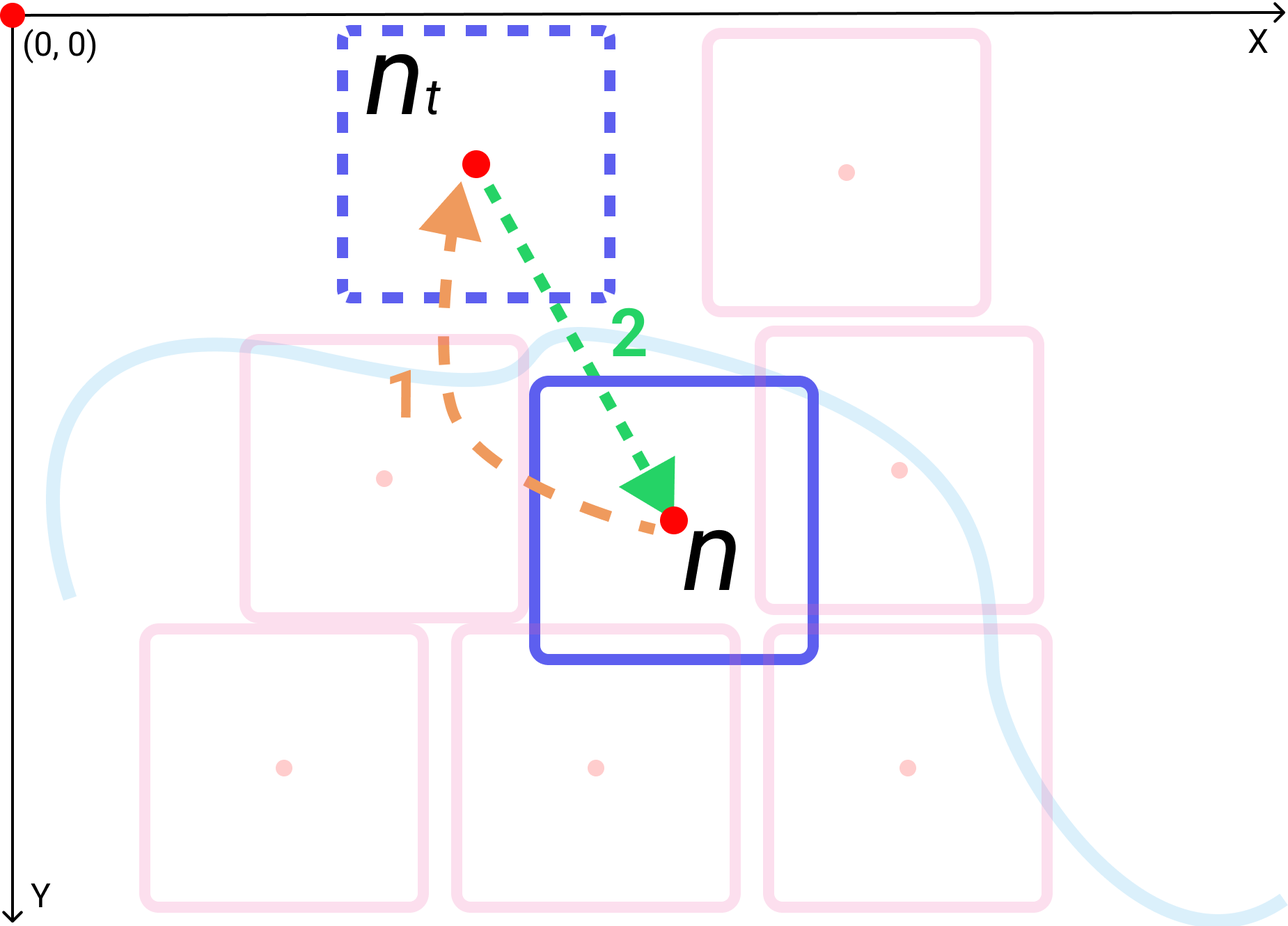
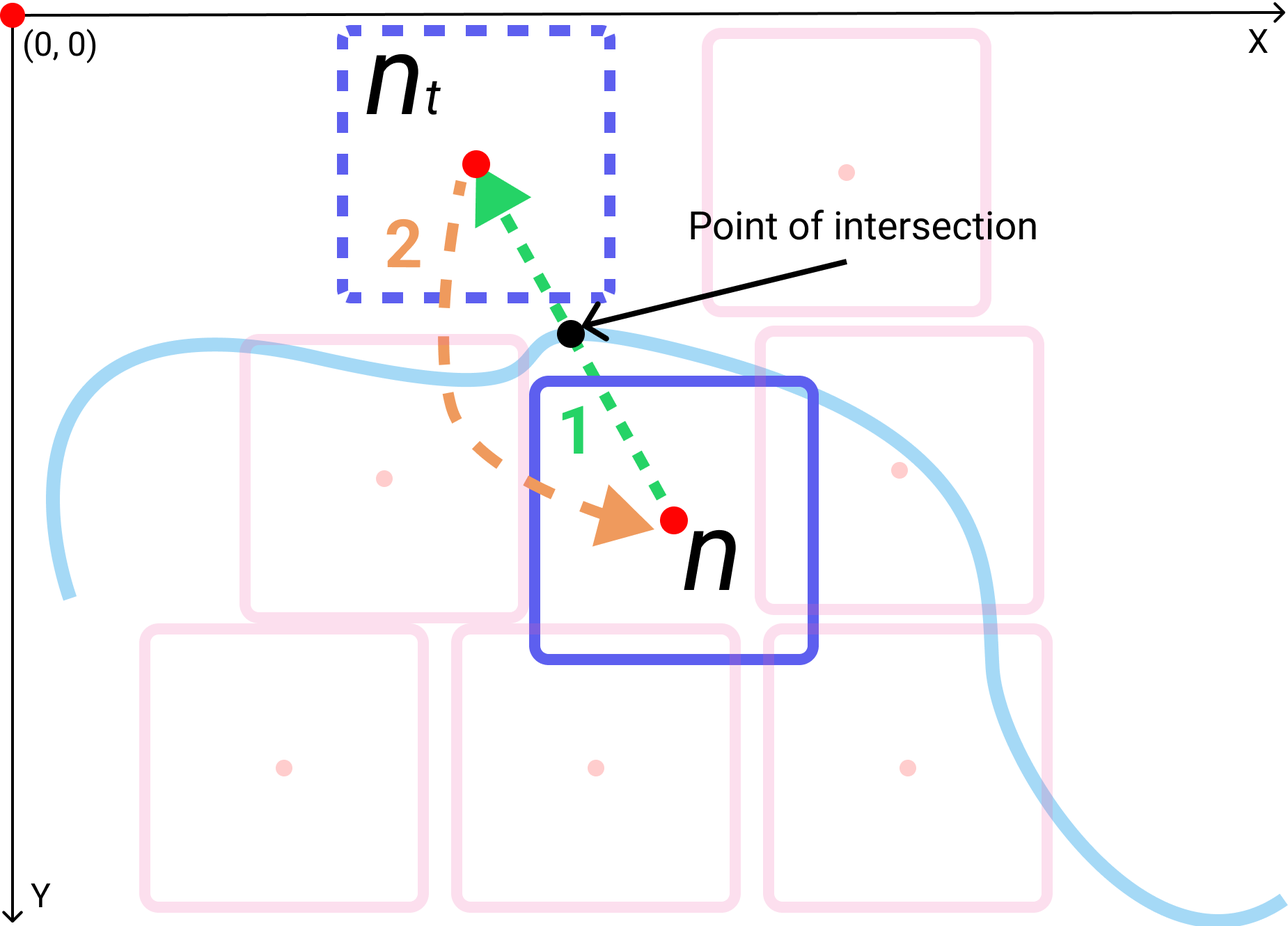
draft: review

diff --git a/paper/section/main.tex b/paper/section/main.tex
@@ -10,33 +10,41 @@
 }
 
 {
-\begin{figure}[tb!]
-    \centering
-    \includegraphics[width=\columnwidth]{figure/flowchart.png}
-    \caption{A flowchart showing our layout algorithm.}
-    \label{fig:flowchart}
-\end{figure}
+    \begin{figure}[tb!]
+        \centering
+        \includegraphics[width=\columnwidth]{figure/flowchart.png}
+        \caption{A flowchart illustration of our layout algorithm. See also \algoref{alg:UpdateNodePosition} for more detail.}
+        \label{fig:flowchart}
+    \end{figure}
+
+    \begin{figure}[tb!]
+        \centering
+        \includegraphics[width=\columnwidth]{figure/flowchart2.png}
+        \caption{An awesome flowchart illustration of our layout algorithm. See also \algoref{alg:UpdateNodePosition} for more detail.}
+        \label{fig:flowchart2}
+    \end{figure}
 }
 
-\algoref{alg:UpdateNodePosition} and \figref{fig:flowchart} provide an overview of our algorithm. \textbf{Initialization:} We first load and render the CCG geospatial boundaries. For each CCG we compute the centroid and represent it using a small unit size square node with initial size, $ \nodeSize $. We start with small unit size squares because they do not overlap initially. \textbf{Node layout:} The basic algorithm is as follows: we first apply the Fast Node Overlap Removal (VPSC) algorithm \cite{dwyer2006fast} to remove overlaps. We chose VPSC over other node overlap removal algorithms because VPSC is able to provide spread minimization and node movement minimization while maintaining a good level of global shape preservation \cite{chen2020Node}. We gradually increase the node size by 1 unit at a time to ensure smooth transitions. An increase in size can cause the nodes to overlap. During overlap removal, we compute node trajectories (See \algoref{alg:check river intersection}) and translate nodes to their new position. Nodes that cross a river are translated back to their previous position. This procedure ends when 1) no node overlap is present; 2) no nodes cross a river. We then increase $ \nodeSize $ by one pixel and repeat the algorithm until the max node size $ \nodeSizeMax $ is reached. The gradual size increase process provides stability to the layout and helps minimize geographical error.
+\algoref{alg:UpdateNodePosition} and \figref{fig:flowchart} provide an overview of the process. \textbf{Initialization:} We first load and render the CCG geospatial boundaries. For each CCG we compute the centroid and represent it using a small unit size square node with initial size, $ \nodeSize $. We start with small unit size squares because they do not overlap initially. \textbf{Node layout:} The basic algorithm is as follows: we first apply the Fast Node Overlap Removal (FNOR) algorithm that solves the Variable Placement with Separation Constraints (VPSC) problem \cite{dwyer2006fast} in order to remove overlaps. We chose FNOR over other node overlap removal algorithms because FNOR is able to provide spread minimization and node movement minimization while maintaining a good level of global shape preservation \cite{chen2020Node}. We gradually increase the node size by 1 unit at a time to ensure smooth transitions. An increase in $ \nodeSize $ can cause the nodes to overlap. During overlap removal, we compute node trajectories (See \algoref{alg:check river intersection}) and translate nodes to their new position. Nodes that cross a river are translated back to their previous position. This procedure ends when 1) no node overlap is present; 2) no nodes cross a river. We then increase $ \nodeSize $ by one pixel and repeat the algorithm until the max node size $ \nodeSizeMax $ is reached. The gradual size increase process provides stability to the layout and helps minimize geographical error.
 
 % \begin{noindent}
 
 \begin{algorithm}[tb!]
     \caption{Procedure to update node positions by removing overlap and prevent nodes from crossing rivers.}\label{alg:UpdateNodePosition}
     \textbf{Global variables:} \\
-    $ \nodeList \gets $ a list of nodes representing CCGs \\
+    $ \nodeList \gets $ a list of $ \node $ representing CCGs with the following properties: \\
+    \-\hspace{1em} $ \nodeListCross \gets True $ if any $ \node $ in $ \nodeList $ crosses a river \\
     $ \nodeSize \gets $ the current size of all nodes \\
     $ \nodeSizeMax \gets $ the maximum size of a node \\
     $ \stalemateMax \gets $ the maximum number of iterations indicating a stalemate \\
 
     \textbf{Local variables:} \\
-    $ \nodeListVPSC \gets $ a list of nodes representing CCGs after VPSC \\
-    $ \nodeListCross \gets True $ if any node in the list crosses a river \\
-    $ \nodeCross \gets True $ if node crosses a river \\
-    % $ \nodeListEach \gets $ a node in $ \nodeList $ \\
-    $ \nodeListEachPrevious \gets $ the previous position of $ \nodeListEach $\\
-    $ \nodeListVPSCEach \gets $ a node in $ \nodeListVPSC $, which is the position of $ \nodeListEach $ after VPSC \\
+    $ \node \gets $ a node is an object with the following property: \\
+    \-\hspace{1em} $ \node.x, \node.y, $ or $ \node(x,y) \gets $ the x and y coordinates of $ \node $ \\
+    \-\hspace{1em} $ \nodeCross \gets True $ if $ \node $ crosses a river \\
+    \-\hspace{1em} $ \nodePrevious \gets $ the previous position of $ \node $ \\
+    \-\hspace{1em} $ \nodeFNOR \gets $ the translated position of $ \node $ \\
+
 
     \begin{algorithmic}[1]
         \Procedure{UpdateNodePosition}{}
@@ -44,30 +52,29 @@
 
             \While{$ \nodeListCross = True $}
 
-                \State \Comment{We should merge two lists into one}
                 \State $ \nodeListCross \gets False $
-                \State $ \nodeListVPSC \gets $ RemoveOverlap ($ \nodeList $)
+                \State $ \nodeList \gets $ RemoveOverlap ($ \nodeList $)
 
-                \ForEach {$ \nodeListVPSCEach \in \nodeListVPSC $}
+                \ForEach {$ \node \in \nodeList $}
 
-                    \If {$ \nodeListEach(x,y) \neq \nodeListVPSCEach(x,y) $}
-
-                        \State $ \nodeCross \gets $ \Call{TestRiverIntersection}{$ \nodeListVPSCEachLine $}
-                        \State $ \nodeListEach(x,y) \gets \nodeListVPSCEach(x,y) $
+                    \If {$ \node(x,y) \neq \nodeFNOR(x,y) $}
+                        
+                        \State $ \node(x,y) \gets \nodeFNOR(x,y) $
+                        \State $ \nodeCross \gets $ \Call{TestRiverIntersection}{$ \nodeFNORLine $}
 
                         \If{$ \nodeCross = True $}
 
                             \State $ \nodeListCross \gets True $
-                            \State $ \nodeListEachStalemate \gets \nodeListEachStalemate + 1 $
+                            \State $ \nodeStalemate \gets \nodeStalemate + 1 $
 
-                            \If{$ \nodeListEachStalemate < \stalemateMax $}
-
-                                \State $ \nodeListEach(x,y) \gets \nodeListEachPrevious(x,y) $
+                            \If{$ \nodeStalemate < \stalemateMax $}
+                                \State \hskip-2em \Comment{Transalte back to previous position}
+                                \State $ \node(x,y) \gets \nodePrevious(x,y) $
 
                             \Else
 
-                                \State \Call{ProcessStalemate}{$ \nodeListEach, \nodeListVPSCEach $}
-                                \State $ \nodeListEachStalemate \gets 0 $ \Comment{Reset counter}
+                                \State \Call{ProcessStalemate}{$ \node, \nodeFNOR $}
+                                \State $ \nodeStalemate \gets 0 $ \Comment{Reset counter}
 
                             \EndIf
                             
@@ -88,35 +95,11 @@
 \end{algorithm}
 
 
-% \begin{algorithm}[tb!]
-%     \caption{Procedure to update the position of a single node $ \node $.}\label{alg:move position}
-
-%     \textbf{Input:} \\
-%     $ \node \gets $ the node \\
-%     $ \nodeVPSC \gets $ the node after running VPSC \\
-
-%     \textbf{Output:} \\
-%     Returns $ True $ if the node's position is updated. \\
-
-%     \begin{algorithmic}[1]
-%         \Procedure{TranslateNode}{$ \node, \nodeVPSC $}
-%         \If{$ \node(x,y) = \nodeVPSC(x,y) $}
-%             \item[] \Comment{Node position remains unchanged}
-%             \State \Return{$ False $}
-%         \EndIf
-
-%         \State $ \node(x,y) \gets \nodeVPSC(x,y) $
-
-%         \State \Return{$ True $}
-%         \EndProcedure
-%     \end{algorithmic}
-% \end{algorithm}
-
 %\end{noindent}
 
 \subsection{River Intersection Testing}
 
-We use rivers as topological boundaries and prevent nodes from crossing them. The resolution of rivers can be adjusted by the user, as shown in \figref{fig:river resolution}, the number of edges is reduced from its original 10,170 to 65. We do not require a pixel-level river resolution as Demers cartograms do not represent geography at this level od detail, instead a resolution that matches the nodes is used. Enabling river simplification reduces the number of edge intersection tests that need to be performed. When a node's position changes, we test if the node's trajectory intersects any segment of a river. See \algoref{alg:check river intersection}. A bounding box intersection test between the edge defined by node translation and river edges can be performed to reduce the number of edge intersection detections required.
+We use rivers as topological boundaries and prevent nodes from crossing them. The resolution of rivers can be adjusted by the user, as shown in \figref{fig:river resolution}, the number of edges is reduced from its original 10,170 to 65. We do not require a pixel-level river resolution as Demers cartograms do not represent geography at this level od detail. Instead a resolution that matches the node size is used. Enabling river simplification reduces the number of edge intersection tests that need to be performed. When a node's position changes, we test if the node's trajectory intersects any segment of a river. See \algoref{alg:check river intersection}. A bounding box intersection test between the edge defined by node translation and river edges can be performed to reduce the number of edge intersection tests required.
 
 
 {
@@ -141,23 +124,21 @@ We use rivers as topological boundaries and prevent nodes from crossing them. Th
     $ \riverEdgeList \gets $ a list of river edges \\
 
     \textbf{Local variables:} \\
-    $ \riverEdgeListEachLine \gets $ a river edge in $ \riverEdgeList $ \\ 
-    $ \nodeBoundingBox, \riverEdgeBoundingBoxEach \gets $ the bounding boxes for $ \nodeLineNV $ and $ \riverEdgeListEachLine $ \\
-    % $ \boundingBoxInt \gets $ boolean indicating $ \nodeBoundingBox $ intersects $ \riverEdgeBoundingBoxEach $ \\
+    $ \riverEdgeLine \gets $ a river edge in $ \riverEdgeList $ \\ 
+    $ \nodeBoundingBox, \riverEdgeBoundingBox \gets $ the bounding boxes for $ \nodeLineNV $ and $ \riverEdgeLine $ \\
+    % $ \boundingBoxInt \gets $ boolean indicating $ \nodeBoundingBox $ intersects $ \riverEdgeBoundingBox $ \\
     % $ \nodeEdge \gets $ the edge for $ \node $\\
     % $ \edgeBoxInt \gets $ boolean indicating $ \nodeEdge $ intersects $ \riverEdgeListEach $ \\
 
     \begin{algorithmic}[1]
         \Procedure{TestRiverIntersection}{$ \nodeLineNV $}
         
-        \ForEach{$ \riverEdgeListEachLine \in \riverEdgeList $}
+        \ForEach{$ \riverEdgeLine \in \riverEdgeList $}
             \State $ \nodeBoundingBox \gets $ GetBoundingBox ($ \nodeLineNV $)
-            \State $ \riverEdgeBoundingBoxEach \gets $ GetBoundingBox ($ \riverEdgeListEachLine $)
-            % \State $ \boundingBoxInt \gets $ TestIntersection ($ \nodeBoundingBox, \riverEdgeBoundingBoxEach $)
-            % \If{$ \boundingBoxInt = True $}
+            \State $ \riverEdgeBoundingBox \gets $ GetBoundingBox ($ \riverEdgeLine $)
 
-            \If{$ \nodeBoundingBox ~intersect~ \riverEdgeBoundingBoxEach = True $}
-                \State \Return{$ \nodeLineNV ~intersect~ \riverEdgeListEachLine $}
+            \If{$ \nodeBoundingBox ~intersect~ \riverEdgeBoundingBox = True $}
+                \State \Return{$ \nodeLineNV ~intersect~ \riverEdgeLine $}
                 \EndIf
         \EndFor
         
@@ -169,13 +150,13 @@ We use rivers as topological boundaries and prevent nodes from crossing them. Th
 
 \subsection{Detecting Stalemates}
 
-As the VPSC always attempts to produce an optimal node layout where node distribution and translation are minimized, a node's translation path might be repeatedly intersecting a river due to congestion, creating a stalemate situation, as shown in \figref{fig:stalemate}. If a node is translated between two positions for $ \stalemateMax $ iterations, a corridor is constructed to break up the congestion. A corridor, $ c $, is a rectangle with a width of $ \CorridorWidth $ and a length of $ \CorridorLength $, formed by deriving two edges $ \EdgeParallelA $ and $ \EdgeParallelB $ such that $ \EdgeParallelA \parallel \EdgeParallelA \parallel \nodeLineNpP $ (See \figref{fig:corridor}C and D). All enclosed nodes are then translated by $ \nodeVectorNC $ to alleviate the congestion (See \figref{fig:corridor}D).
+As the FNOR always attempts to produce an optimal node layout where node distribution and translation are minimized, a node's translation path might repeatedly intersect a river due to congestion, creating a stalemate situation, as shown in \figref{fig:stalemate}. If a node is translated between two positions, $ \node $ and $ \nodeFNOR $, for $ \stalemateMax $ iterations, we introduce a heuristic solution: constructing a corridor to break up the congestion. A corridor, $ c $, is a rectangle with a width of $ \CorridorWidth $ and a length of $ \CorridorLength $, formed by deriving two edges $ \EdgeParallelA $ and $ \EdgeParallelB $ such that $ \EdgeParallelA \parallel \EdgeParallelA \parallel \nodeLineNtNc $ (See \figref{fig:corridor}C and D). All enclosed nodes are then translated by $ \nodeVectorTC $ to alleviate the congestion (See \figref{fig:corridor}D).
 
 {
 \begin{figure}[tb!]
     \centering
     \includegraphics[width=\columnwidth]{figure/stalemate.png}
-    \caption{A stalemate situation is when a node's translation path $ \nodeVectorCN $ intersects a river for $ \stalemateMax $ times. A stalemate often occurs when the area is congested and the node is unable to move to a position that is not intersecting a river.}
+    \caption{A stalemate situation is when a node's translation path $ \nodeVectorCT $ (in iteration 1) intersects a river for $ \stalemateMax $ times. The node is translated back to its previous position (iteration 2). A stalemate often occurs when the area is congested and the node is unable to translate to a position without intersecting a river.}
     \label{fig:stalemate}
 \end{figure}
 }
@@ -184,7 +165,7 @@ As the VPSC always attempts to produce an optimal node layout where node distrib
 \begin{figure}[tb!]
     \centering
     \includegraphics[width=\columnwidth]{figure/corridor.png}
-    \caption{A stalemate occurs when a node's translation path $ \nodeVectorCN $ intersects a river for $ \stalemateMax $ times, as shown in A. To address the issue, we derive a corridor (orange rectangle in D) based on $ \node $ and $ \nodeVPSC $. All nodes within the corridor are translated based on $ \nodeVectorNC $, such that $ \nodeVectorNNn = \nodeVectorNinNinn $. In order to show a clear illustration, we place nodes sparsely in this figure.}
+    \caption{A stalemate occurs when a node's translation path $ \nodeVectorCT $ intersects a river for $ \stalemateMax $ times, as shown in A. To address the issue, we derive a corridor (orange rectangle in E) based on $ \node $ and $ \nodeFNOR $. All nodes within the corridor are translated based on $ \nodeVectorTC $, such that $ \nodeVectorNNn = \nodeVectorNinNinn $. In order to show a clear illustration, we place nodes sparsely in this figure.}
     \label{fig:corridor}
 \end{figure}
 }
@@ -203,20 +184,19 @@ As the VPSC always attempts to produce an optimal node layout where node distrib
 
     \textbf{Local variables:} \\
     $ \Corridor \gets $ the corridor \\
-    $ \nodePrevious \gets $ the previous position of $ \node $ (this here is confusing because $ \nodePrevious $ is actually $ \nodeVPSC $ in the previous iteration)\\
-    $ \PointP \gets $ the point extending $ \nodeVectorNC $ such that $ \nodeLineWidthNtP = \CorridorLength $\\
-    $ \EdgeParallelA, \EdgeParallelB \gets $ the edges parallel to $ \nodeLineNpP $ \\
+    $ \PointP \gets $ the point extending $ \nodeVectorTC $ such that $ \nodeLineWidthNtP = \CorridorLength $\\
+    $ \EdgeParallelA, \EdgeParallelB \gets $ the edges parallel to $ \nodeLineNtNc $ \\
     $ corridor \gets $ a rectangle formed by $ \EdgeParallelA $ and $ \EdgeParallelB $ \\
 
     \begin{algorithmic}[1]
         \Procedure{ProcessStalemate}{$ \node $}
             \State $ \node(x,y) \gets \nodePrevious(x,y) $
 
-            \State $ \PointP \gets $ \Call{DerivePoint}{$ \nodeVectorPC $, $ \CorridorLength $}
+            \State $ \PointP \gets $ \Call{DerivePoint}{$ \nodeVectorTC $, $ \CorridorLength $}
 
-            \State $ \EdgeParallelA \gets $ \Call{DeriveParallelEdge}{$ \nodeVectorNpP $, $ \frac{\CorridorWidth}{2} $}
+            \State $ \EdgeParallelA \gets $ \Call{DeriveParallelEdge}{$ \nodeVectorNtP $, $ \frac{\CorridorWidth}{2} $}
 
-            \State $ \EdgeParallelB \gets $ \Call{DeriveParallelEdge}{$ \nodeVectorNpP $, $ -\frac{\CorridorWidth}{2} $}
+            \State $ \EdgeParallelB \gets $ \Call{DeriveParallelEdge}{$ \nodeVectorNtP $, $ -\frac{\CorridorWidth}{2} $}
 
             \State $ \Corridor \gets
                 \begin{bmatrix}
@@ -227,11 +207,11 @@ As the VPSC always attempts to produce an optimal node layout where node distrib
                     \EdgeParallelB.end \\
                 \end{bmatrix} $
 
-            \ForEach{$ \nodeInCorridorEach $ inside $ \Corridor $}
+            \ForEach{$ \nodeInCorridor $ inside $ \Corridor $}
 
-                \State $ \Vector{\nodeInCorridorEach ~\nodeInCorridorEachT} = \nodeVectorPC $
+                \State $ \Vector{\nodeInCorridor ~\nodeInCorridorT} = \nodeVectorTC $
 
-                \State $ \nodeInCorridorEach(x,y) \gets \nodeInCorridorEachT(x,y) $
+                \State $ \nodeInCorridor(x,y) \gets \nodeInCorridorT(x,y) $
 
             \EndFor
         \EndProcedure

diff --git a/paper/section/introduction.tex b/paper/section/introduction.tex
@@ -2,7 +2,7 @@
 
 Cartograms are representations of hybrid geographical and abstract data based on a value-by-area mapping technique combining statistical and geographical information \cite{dent2009Cartography}. Various styles of cartograms have been proposed and implemented, covering applications such as urban planning \cite{harris2018Mapping, arranz-lopez2021Enduser}, natural hazard forecasting \cite{pappenberger2019Cartograms, park2020Flood}, conservation and environmental planning \cite{galluzzi2018Mapping, rocchini2019Cartogramming}, political and social demographics \cite{breitzman2018Using, alieva2021How}, and public health decision making \cite{gao2020Visualising, sack2021Visualizing}.
 
-Among the four types of cartograms categorized by \citea{nusrat2016State} (contiguous, non-contiguous, rectangular, and Dorling), a trade-off between types of accuracy is made (See \tableref{table:accuracy}). For this project we focus on non-contiguous cartograms like Demers cartograms, because they facilitate statistical comparison between regions and they can make good use of screen space. Building on Demers cartograms \cite{ian2002Cartogram}, we introduce and develop novel dynamic topological features, such as rivers, aiming to improve the readability and geographical accuracy without sacrificing statistical accuracy. We implement a new cartographic layout algorithm that includes these topological features into the layout of the nodes representing geographical regions. To minimize geographical errors and make efficient use of screen space, the algorithm also updates the position of rivers to accommodate the node layout. One of the major challenges involves is how to develop a layout algorithm that handles different types of nodes. In other words, the layout algorithm is novel because it handles different types of nodes: rectangular representing regions and polylines representing rivers. We then apply the algorithm to a real world case-study using an Electronic Health Records (EHR) dataset to assess the accuracy of our algorithm. We also present a user study demonstrating its effectiveness.
+Among the four types of cartograms categorized by \citea{nusrat2016State} (contiguous, non-contiguous, rectangular, and Dorling), a trade-off between types of accuracy is made (See \tableref{table:accuracy}). For this project we focus on non-contiguous cartograms like Demers cartograms, because they facilitate statistical comparison between regions and they can make good use of screen space. Building on Demers cartograms \cite{ian2002Cartogram}, we introduce and develop novel dynamic topological features, such as rivers, aiming to improve the readability and geographical accuracy without sacrificing statistical accuracy. We implement a new cartographic layout algorithm that includes these topological features into the layout of the nodes representing geographical regions. To minimize geographical errors and make efficient use of screen space, the algorithm also updates the position of rivers to accommodate the node layout. We then apply the algorithm to a real world case-study using an Electronic Health Records (EHR) dataset to evaluate of our algorithm. We also present a user study demonstrating its effectiveness.
 
 \new{Our contributions include:}
 
@@ -11,3 +11,5 @@ Among the four types of cartograms categorized by \citea{nusrat2016State} (conti
     \item A novel layout algorithm that preserves node positions relative to dynamic topological features such as rivers.
     \item A user study evaluation of the technique with an application to EHRs
 \end{itemize}
+
+\new{One of the major challenges involves is how to develop a layout algorithm that handles different shapes. In other words, the layout algorithm is novel because it handles different types of nodes: rectangular representing regions and polylines representing rivers. Another challenge we overcome in developing the algorithm is to revolve stalemate situations introduced by dynamic topological features while minimizing the geographical error.}

diff --git a/paper/preamble/preamble.math.tex b/paper/preamble/preamble.math.tex
@@ -4,19 +4,19 @@
 % bold \mathcal{}
 \DeclareMathAlphabet{\mathbcal}{OMS}{cmsy}{b}{n}
 
+% wrapper for math symbols
+\newcommand{\Vector}[1]{\protect\overrightarrow{#1}}
+\newcommand{\Line}[1]{\protect\overline{#1}}
+\newcommand{\dx}{\Delta x}
+\newcommand{\dy}{\Delta y}
+\newcommand{\Width}[1]{\lvert #1 \rvert}
+
 % UpdateNodePosition
-
 \newcommand{\nodeList}{\bm{L}}
-\newcommand{\nodeListEach}{\node}
-% \newcommand{\nodeListEach}{\node^i}
 
-\newcommand{\nodeListEachStalemate}{\nodeListEach.stalemate}
-\newcommand{\nodeListEachPrevious}{\nodeListEach_{p}}
-\newcommand{\nodeListVPSC}{\bm{L}_t}
-% \newcommand{\nodeListVPSCEach}{\node^{i'}}
-\newcommand{\nodeListVPSCEach}{\node_t}
+\newcommand{\nodeStalemate}{\node.stalemate}
 
-\newcommand{\nodeListVPSCEachLine}{\Line{\nodeListEach\nodeListVPSCEach}}
+\newcommand{\nodeFNORLine}{\Line{\node\nodeFNOR}}
 \newcommand{\nodeSize}{s}
 \newcommand{\nodeSizeMax}{s_{max}}
 \newcommand{\stalemateMax}{w}
@@ -27,20 +27,18 @@
 
 \newcommand{\node}{\bm{n}}
 \newcommand{\nodePrevious}{\node_{p}}
-\newcommand{\nodeVectorPC}{\Vector{\nodePrevious\node}}
-\newcommand{\nodeVectorCP}{\Vector{\node\nodePrevious}}
-\newcommand{\nodeVPSC}{\node_t}
-\newcommand{\nodeVectorNC}{\Vector{\nodeVPSC\node}}
-\newcommand{\nodeVectorCN}{\Vector{\node\nodeVPSC}}
+\newcommand{\nodeFNOR}{\node_t}
+
+\newcommand{\nodeVectorTC}{\Vector{\nodeFNOR\node}}
+\newcommand{\nodeVectorCT}{\Vector{\node\nodeFNOR}}
 
 % check river crossing
 
+\newcommand{\riverEdge}{\bm{r}}
 \newcommand{\riverEdgeList}{\bm{R}}
-% \newcommand{\riverEdgeListEach}{r^i}
-\newcommand{\riverEdgeListEach}{\bm{r}}
-\newcommand{\riverEdgeListEachLine}{\Line{\riverEdgeListEach}}
+\newcommand{\riverEdgeLine}{\Line{\riverEdge}}
 \newcommand{\nodeBoundingBox}{b_n}
-\newcommand{\riverEdgeBoundingBoxEach}{b_{\riverEdgeListEach}}
+\newcommand{\riverEdgeBoundingBox}{b_{\riverEdge}}
 \newcommand{\boundingBoxInt}{b_{int.}}
 \newcommand{\nodeEdge}{e_n}
 \newcommand{\edgeBoxInt}{e_{int.}}
@@ -58,33 +56,18 @@
 \newcommand{\EdgeParallelB}{\Line{e_{p^2}}}
 \newcommand{\Distance}{d}
 \newcommand{\nodeVectorNP}{\Vector{\node\PointP}}
-\newcommand{\nodeVectorNV}{\Vector{\node\nodeVPSC}}
-\newcommand{\nodeLineNV}{\Line{\node\nodeVPSC}}
+\newcommand{\nodeVectorNV}{\Vector{\node\nodeFNOR}}
+\newcommand{\nodeLineNV}{\Line{\node\nodeFNOR}}
 \newcommand{\nodeLinePN}{\Line{\nodePrevious\node}}
-\newcommand{\nodeVectorNpP}{\Vector{\nodePrevious\PointP}}
-\newcommand{\nodeLineNpP}{\Line{\nodePrevious\PointP}}
-\newcommand{\nodeLineWidthNtP}{\Width{\nodeVPSC\PointP}}
-\newcommand{\nodeLineWidthNpN}{\Width{\nodePrevious\node}}
+\newcommand{\nodeVectorNtP}{\Vector{\nodeFNOR\PointP}}
+\newcommand{\nodeLineNtNc}{\Line{\nodeFNOR\PointP}}
+\newcommand{\nodeLineWidthNtP}{\Width{\nodeFNOR\PointP}}
 \newcommand{\nodeInCorridor}{\node_{in}}
 \newcommand{\nodeInCorridorT}{\node_{in_t}}
-\newcommand{\nodeInCorridorEach}{\nodeInCorridor}
-% \newcommand{\nodeInCorridorEach}{\nodeInCorridor^i}
-\newcommand{\nodeInCorridorEachT}{\nodeInCorridorT}
-% \newcommand{\nodeInCorridorEachT}{\nodeInCorridorT^i}
-\newcommand{\nodeInCorridorEachDx}{\Delta x_{\nodeInCorridorEach}}
-\newcommand{\nodeInCorridorEachDy}{\Delta y_{\nodeInCorridorEach}}
 
 
 % derive corridor point
 \newcommand{\Scale}{scale}
-\newcommand{\dx}{\Delta x}
-\newcommand{\dy}{\Delta y}
-\newcommand{\Vector}[1]{\protect\overrightarrow{#1}}
-\newcommand{\Line}[1]{\protect\overline{#1}}
-
-
-\newcommand{\Width}[1]{\lvert #1 \rvert}
-
 
 % figure fig:corridor
 

diff --git a/paper/section/related.tex b/paper/section/related.tex
@@ -97,8 +97,9 @@ While we focus on rectangular and Dorling cartograms in this paper, we start wit
 
 \citea{warf2008Geography} use a Dorling cartogram to represent the religious diversity in the United States. \citea{sun2010Effectiveness} depict 1996 US election data and 2005 Chinese population data using Dorling, Mosaic, and contiguous cartograms. \citea{gao2020Visualising} present a Dorling cartogram to illustrate COVID-19 infections in China. \citea{tong2018cartograms} use a Demers cartogram to visualize health-related data by CCG regions in England, the work introduces a novel technique to remove overlap of squares based on topological features, aiming to improve both geographical and topological accuracy. \citea{nusrat2020Recognition} investigate the memorability of contiguous and Dorling cartograms by using multiple datasets including demographics, agriculture, and retail data in the US. See \tableref{table:region vs node} for a list of literature that adopts cartograms for visualization with corresponding geographical regions and node counts.
 
+\new{Our work extends the algorithm described by \citea{tong2018cartograms} which incorporates static topological features into Demers cartograms. Making topological features dynamic further improves the geographical accuracy and legibility.}
 
-\subsection{Implementations}
+\subsection{Implementation in Popular Media}
 
 Cartograms are a popular choice of representation in covering various topics by the media, with the goal of presenting an unbiased and complete picture of the news. The Washington Post uses cartograms to visualize the US overseas economic assistance, in arm sales (Mosaic) \cite{bearak2016Everything}, the 2016 US Election (contiguous) \cite{gamio2016Election}, and the Brexit Referendum (Mosaic) \cite{taylor2016What}. National Geographic uses contiguous and Mosaic cartograms to analyze the 2016 US Election results \cite{miller2016Election}, the same topic is also covered by the Financial Times with a Dorling cartogram \cite{stabe2016Search}. \citea{cruz2017Adapted} adapts a Dorling cartogram with both contiguous and non-contiguous cartograms to represent the gender pay gap in Portugal. \citea{sandberg2018Cartogram} reports the 2018 US midterm Election with a Mosaic cartogram, the same approach is used to cover the 2020 US Election by the New York Times \cite{thelearningnetwork2020What} and Bloomberg \cite{mccartney20202020}.
 
@@ -107,4 +108,4 @@ Cartograms are a popular choice of representation in covering various topics by 
 % \citea{newman2016Election} generates contiguous cartograms to present US Election results in 2012 and 2016.
 
 
-One of the disadvantages of Dorling and Demers cartograms is the legibility. The layout algorithms may displace regions far from their original position and making them more difficult to interpret. Our work extends Demers cartograms. We introduce a new type of dynamic topological feature, a river, aiming to improve the interpretation, readability, and geographical accuracy of this class of cartograms.
+One of the disadvantages of Dorling and Demers cartograms is the legibility. The layout algorithms may displace regions far from their original position and making the maps more difficult to interpret. Our work extends Demers cartograms. We introduce a new type of dynamic topological feature, a river, aiming to improve the interpretation, readability, and geographical accuracy of this class of cartograms.

diff --git a/paper/section/data.tex b/paper/section/data.tex
@@ -14,13 +14,9 @@ Geospatial boundaries, or shapefiles, were obtained from the sources described b
 \end{figure}
 }
 
-\bobgraph{Clinical Commissioning Groups Shapefile}
+\bobgraph{Clinical Commissioning Groups Shapefile:} Clinical Commissioning Groups (CCGs) are the primary administrative and geographic unit of the National Health Service (NHS) in the UK \cite{nhsNHS}. The number of CCGs changes over time due to the NHS re-organization. The most up-to-date shapefile is available from the Open Geography portalx \cite{opengeographyportalxOpen}. We decided to use the CCG shapefile from 2020 at the time of writing, because there is still no public EHR data published based on the latest CCG re-organization that took place in 2021.
 
-Clinical Commissioning Groups (CCGs) are the primary administrative and geographic unit of the National Health Service (NHS) in the UK \cite{nhsNHS}. The number of CCGs changes over time due to the NHS re-organization. The most up-to-date shapefile is available from the Open Geography portalx \cite{opengeographyportalxOpen}. We decided to use the CCG shapefile from 2020 at the time of writing, because there is still no public EHR data published based on the latest CCG re-organization that took place in 2021.
-
-\bobgraph{River Features}
-
-We used OpenStreetMap \cite{openstreetmapRelation} as our data source to obtain shapefiles for River Thames, River Trent and River Great Ouse in England. These rivers were chosen as they are well-known rivers and pass through regions with dense population, and provide informative geographical and topological cues. 
+\bobgraph{River Features:} We used OpenStreetMap \cite{openstreetmapRelation} as our data source to obtain shapefiles for River Thames, River Trent and River Great Ouse in England. These rivers were chosen as they are well-known rivers and pass through regions with dense population, and provide informative geographical and topological cues. 
 
 We first obtain a relation ID by searching for a river, e.g. River Thames, on OpenStreetMap. The relation ID is used to construct a query (See Listing~\ref{overpass}) which enables the user to download the entire river shapefile using Overpass Turbo \cite{overpassturboOverpass}.
 
@@ -29,7 +25,7 @@ We first obtain a relation ID by searching for a river, e.g. River Thames, on Op
     out skel;
 \end{lstlisting}
 
-After acquiring the shapefiles, we used QGIS \cite{qgisWelcome} to manually adjust projections and scales, and merge them into one shapefile. Finally, mapshaper \cite{blochMapshaper} is used to convert the merged shapefile into a TopoJSON \cite{TopoJSON} file. TopoJSON eliminates redundant coordinates in the data, this improves the rendering speed of our implementation.
+After acquiring the shapefiles, we used QGIS \cite{qgisWelcome} to manually adjust projections, translations and scales, and merge them into one shapefile. Finally, mapshaper \cite{blochMapshaper} is used to convert the merged shapefile into a TopoJSON \cite{TopoJSON} file. TopoJSON eliminates redundant coordinates in the data, this improves the rendering speed of our implementation.
 
 \subsection{EHR Data}
 

diff --git a/paper/preamble/preamble.main.tex b/paper/preamble/preamble.main.tex
@@ -54,7 +54,6 @@
 \algdef{S}[FOR]{ForEach}[1]{\algorithmicforeach\ #1\ \algorithmicdo}
 
 % code listing
-
 \usepackage{listings}
 \lstdefinestyle{customc}{
   belowcaptionskip=1\baselineskip,
